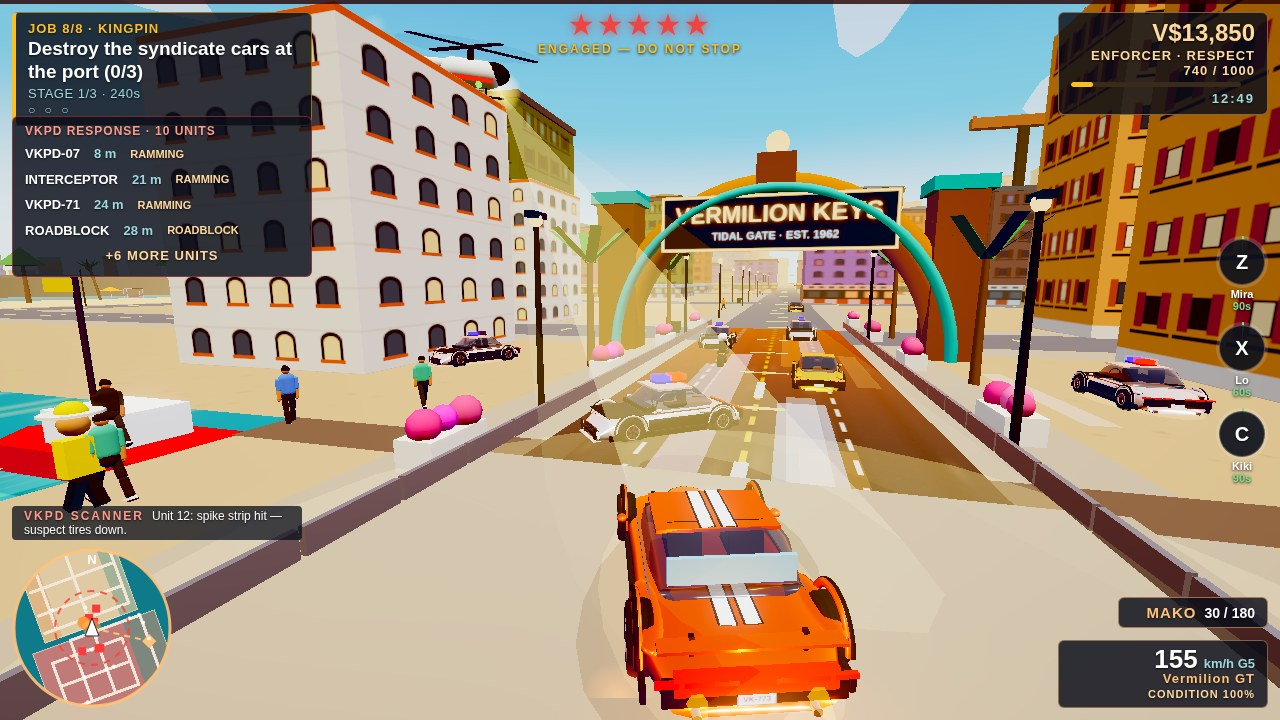
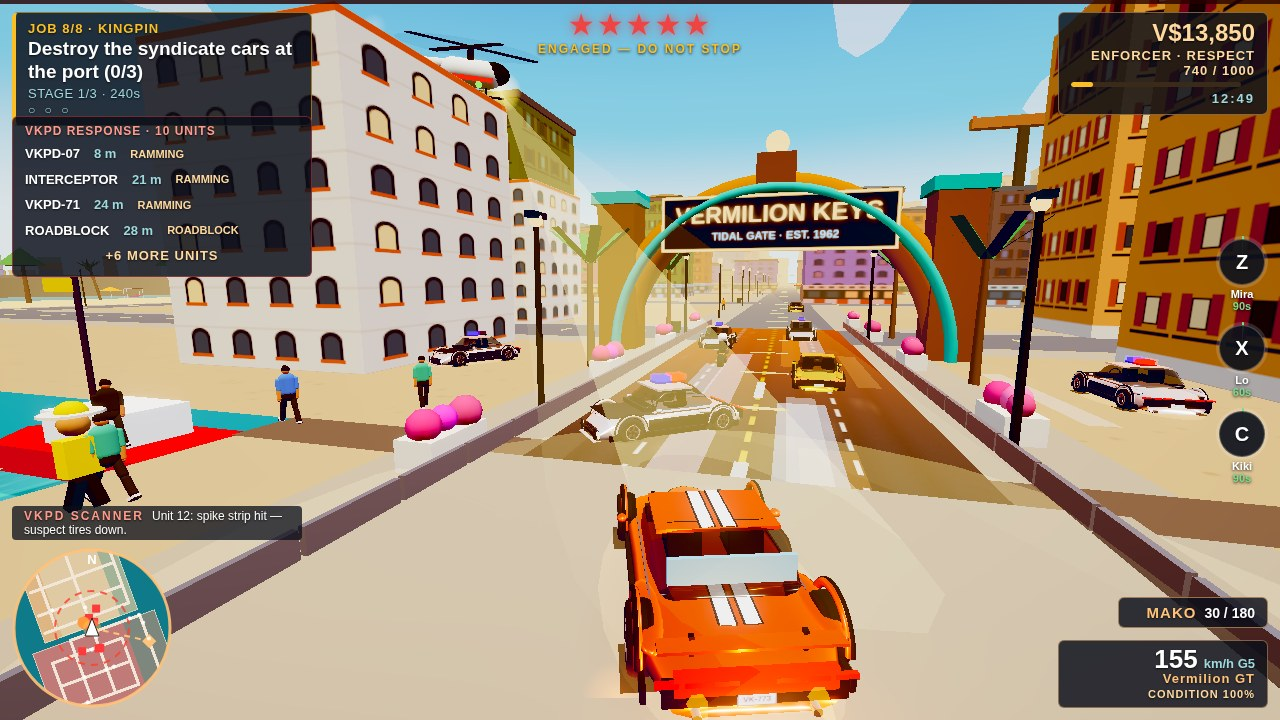
Rear-view fix: crisp contact patches, darker blob, dark glass
- Contact patches: four dark quads under the tyre contacts in
  buildHeroCar (addContactPatches, cars only), a hard anchor where
  the hero blob is soft. Positions from the real wheel centres:
  axles x=+/-L*0.32, sides z=+/-W/2. No castShadow (shadows off).
  Live loop 2308 -> 2352 calls (+44: the builder is shared, so all
  11 visible cars get patches, not just the hero); triangles
  315274 -> 315362.
- Blob: radial-gradient texture on the hero blob in boot.js
  (centre 0.9, mid 0.45, edge 0), so the centre is dense and the
  edge falls off fast. The plan's addBlobShadow gradient; the blob
  itself lives in boot.js, not renderLook.js.
- Glass: GLASS_MAT now near-black (0x05090c), metalness 0,
  envMapIntensity 0.35. Kept transparent/opacity/DoubleSide.
  Probe confirms the material is live in the running game, but the
  rear window in the cover still reads pale cream (unchanged from
  Step 1) — likely a bright sky reflection at a grazing angle on
  the very smooth glass; reported honestly in the issue post.
- Verify 42 PASS / 4 FAIL (known four only). Page errors 0,
  overlap 0.

diff --git a/game/src/look/heroCarMesh.js b/game/src/look/heroCarMesh.js
@@ -29,9 +29,16 @@ const DARK_BARREL = new THREE.MeshStandardMaterial({ color: 0x2a2d33, metalness:
 const SPOKE_MAT = new THREE.MeshStandardMaterial({ color: 0x9aa0a8, metalness: 0.9, roughness: 0.35, envMapIntensity: 1.0 });
 const CALIPER_MAT = new THREE.MeshStandardMaterial({ color: 0xc02020, roughness: 0.4, metalness: 0.4 });
 const INTERIOR_MAT = new THREE.MeshStandardMaterial({ color: 0x14161c, roughness: 0.9, metalness: 0.0 });
-const GLASS_MAT = new THREE.MeshPhysicalMaterial({
-  color: 0x1e3a52, metalness: 0.3, roughness: 0.08, transparent: true,
-  opacity: 0.82, side: THREE.DoubleSide, envMapIntensity: 1.8,
+const GLASS_MAT = new THREE.MeshStandardMaterial({
+  // RENDER-FIX ROUND (rear-view fix) — dark glass: the pale look came
+  // from metalness 0.3 + envMapIntensity 1.8 with a bright environment
+  // map. Near-black colour, no metalness, low env intensity. The
+  // transparent/opacity/DoubleSide are kept from the old material
+  // (the user's spec addresses paleness, not sidedness or
+  // see-through): the greenhouse loft still reads as tinted glass
+  // with the dark interior behind it, just much darker.
+  color: 0x05090c, roughness: 0.05, metalness: 0.0, envMapIntensity: 0.35,
+  transparent: true, opacity: 0.82, side: THREE.DoubleSide,
 });
 const HALO_MAT = new THREE.MeshBasicMaterial({ color: 0xfff6d8 });
 const LENS_MAT = new THREE.MeshBasicMaterial({ color: 0xfff2b0 });
@@ -209,6 +216,34 @@ function buildWheel(side) {
   const caliper = mesh(new THREE.BoxGeometry(0.06, 0.1, 0.05), CALIPER_MAT);
   caliper.position.set(0.1, 0.1, side * 0.1);
   return { spin, caliper };
+}
+
+// RENDER-FIX ROUND (rear-view fix) — crisp contact patches: four
+// dark quads under the tyre contacts, a hard anchor where the hero
+// blob is soft. Four extra draw calls. No castShadow (shadows stay
+// off). Positions measured from the REAL wheel centres in
+// buildHeroCar: axles at x = +/-L*0.32, sides at z = +/-W/2
+// (local +X = nose, +Z = car's right). The plan's
+// PlaneGeometry(0.42, 0.7) is adapted to this car's axis convention:
+// the quad's long side (0.7) runs along the car (X), short side
+// (0.42) across it (Z). renderOrder 6 draws the patches above the
+// hero blob (renderOrder 5) so the crisp quads read on top of the
+// soft ellipse. y = 0.015 sits above the road (tyre bottom ~0) and
+// below the blob (0.06), so there is no z-fighting.
+export function addContactPatches(car, L, W) {
+  const mat = new THREE.MeshBasicMaterial({
+    color: 0x000000, transparent: true, opacity: 0.8, depthWrite: false,
+  });
+  const geo = new THREE.PlaneGeometry(0.7, 0.42);
+  for (const s of [-1, 1]) {
+    for (const x of [-L * 0.32, L * 0.32]) {
+      const p = new THREE.Mesh(geo, mat);
+      p.rotation.x = -Math.PI / 2;
+      p.position.set(x, 0.015, s * (W / 2));
+      p.renderOrder = 6;
+      car.add(p);
+    }
+  }
 }
 
 export function buildHeroCar(cls, color, police = false) {
@@ -433,6 +468,10 @@ export function buildHeroCar(cls, color, police = false) {
       g.add(well);
     }
   }
+
+  // RENDER-FIX ROUND — crisp contact patches under the four tyres
+  // (cars only: a bike has two centred wheels, not four corners).
+  if (cls !== 'bike') addContactPatches(g, L, W);
 
   // Rear (most visible part of the cover): recessed black valance,
   // 6 LED taillight bars, VK-773 plate, twin chrome exhausts.

diff --git a/game/src/boot.js b/game/src/boot.js
@@ -174,9 +174,27 @@ class Game {
     // the far leaf/road while the car is above the gap, so the height
     // reads as a jump instead of flight. Opacity fades with height.
     // FIX ROUND 2 (user feedback: the car read as flying, not leaping).
+    // RENDER-FIX ROUND (rear-view fix) — darker blob: a radial-
+    // gradient texture so the centre is dense and the edge falls off
+    // fast. This is the plan's addBlobShadow gradient (0: 0.9, 0.5:
+    // 0.45, 1: 0); the blob itself lives here in boot.js, not in
+    // renderLook.js. The per-frame material.opacity still scales the
+    // whole gradient (0.25 in shots, 0.18-0.55 live), so the centre
+    // reads denser than the edge at any opacity. The old flat ellipse
+    // had a hard 0.25 cutoff at its rim; the gradient removes it.
+    const blobCanvas = document.createElement('canvas');
+    blobCanvas.width = blobCanvas.height = 128;
+    const blobCtx = blobCanvas.getContext('2d');
+    const blobGrad = blobCtx.createRadialGradient(64, 64, 4, 64, 64, 64);
+    blobGrad.addColorStop(0, 'rgba(0,0,0,0.9)');
+    blobGrad.addColorStop(0.5, 'rgba(0,0,0,0.45)');
+    blobGrad.addColorStop(1, 'rgba(0,0,0,0)');
+    blobCtx.fillStyle = blobGrad;
+    blobCtx.fillRect(0, 0, 128, 128);
+    const blobTex = new THREE.CanvasTexture(blobCanvas);
     this.heroBlob = new THREE.Mesh(
       new THREE.CircleGeometry(1, 20),
-      new THREE.MeshBasicMaterial({ color: 0x000000, transparent: true, opacity: 0, depthWrite: false }),
+      new THREE.MeshBasicMaterial({ map: blobTex, color: 0x000000, transparent: true, opacity: 0, depthWrite: false }),
     );
     this.heroBlob.rotation.x = -Math.PI / 2;
     // Draw after the heli's searchlight pool (renderOrder 1-2): the pool
